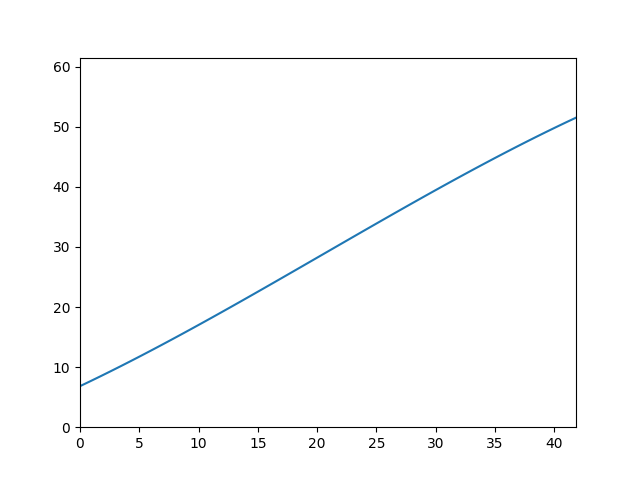
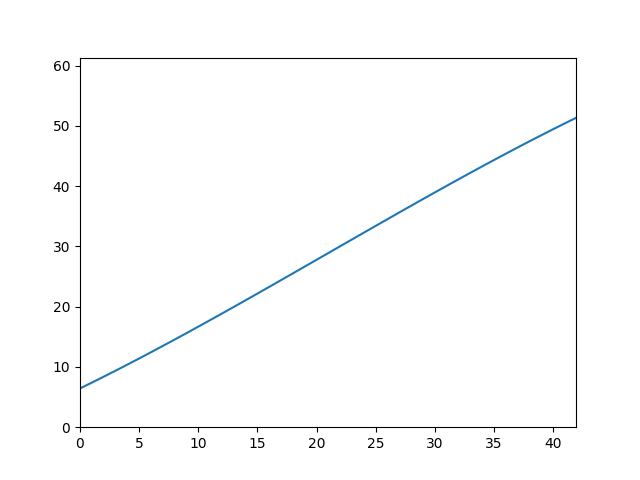
Update

diff --git a/derailleurs/Shimano Deore M5120/default.htm b/derailleurs/Shimano Deore M5120/default.htm
@@ -21,19 +21,19 @@ Shimano Deore 11-Speed
   </tr>
   <tr>
     <th>Pull Ratio</th>
-    <td>1.11</td>
+    <td>1.10</td>
   </tr>
   <tr>
     <th>Curve Coefficients</th>
-    <td>6.83, 0.936, 0.00987, -0.000160</td>
+    <td>6.43, 0.957, 0.00806, -0.000128</td>
   </tr>
   <tr>
     <th>Physical Low Limit</th>
-    <td>6.83</td>
+    <td>6.43</td>
   </tr>
   <tr>
     <th>Physical High Limit</th>
-    <td>51.53</td>
+    <td>51.33</td>
   </tr>
   <tr>
     <th>Pull Ratio Averaged Across Pulling Runs</th>
@@ -41,15 +41,15 @@ Shimano Deore 11-Speed
   </tr>
   <tr>
     <th>Pull Ratio Averaged Across Relaxing Runs</th>
-    <td>nan +/- nan</td>
+    <td>1.098 +/- 0.000</td>
   </tr>
   <tr>
     <th>Pull Ratio Averaged Across All Runs</th>
-    <td>1.109 +/- 0.000</td>
+    <td>1.103 +/- 0.011</td>
   </tr>
   <tr>
     <th>Pull Ratio 95% Confidence Interval</th>
-    <td>1.109 to 1.109</td>
+    <td>1.093 to 1.114</td>
   </tr>
   
   
@@ -72,6 +72,16 @@ Shimano Deore 11-Speed
 <a href="pullratio/2025-01-11 13-03 PM Pulling.csv">Raw Measurement Data</a>
 <figure>
 <img src="pullratio/2025-01-11 13-03 PM Pulling.png"/>
+<figcaption>Data and best fit line, excluding points taken at limits</figcaption>
+</figure>
+</section>
+
+
+<section>
+<h2>2025-01-11 13-26 PM Relaxing</h2>
+<a href="pullratio/2025-01-11 13-26 PM Relaxing.csv">Raw Measurement Data</a>
+<figure>
+<img src="pullratio/2025-01-11 13-26 PM Relaxing.png"/>
 <figcaption>Data and best fit line, excluding points taken at limits</figcaption>
 </figure>
 </section>
